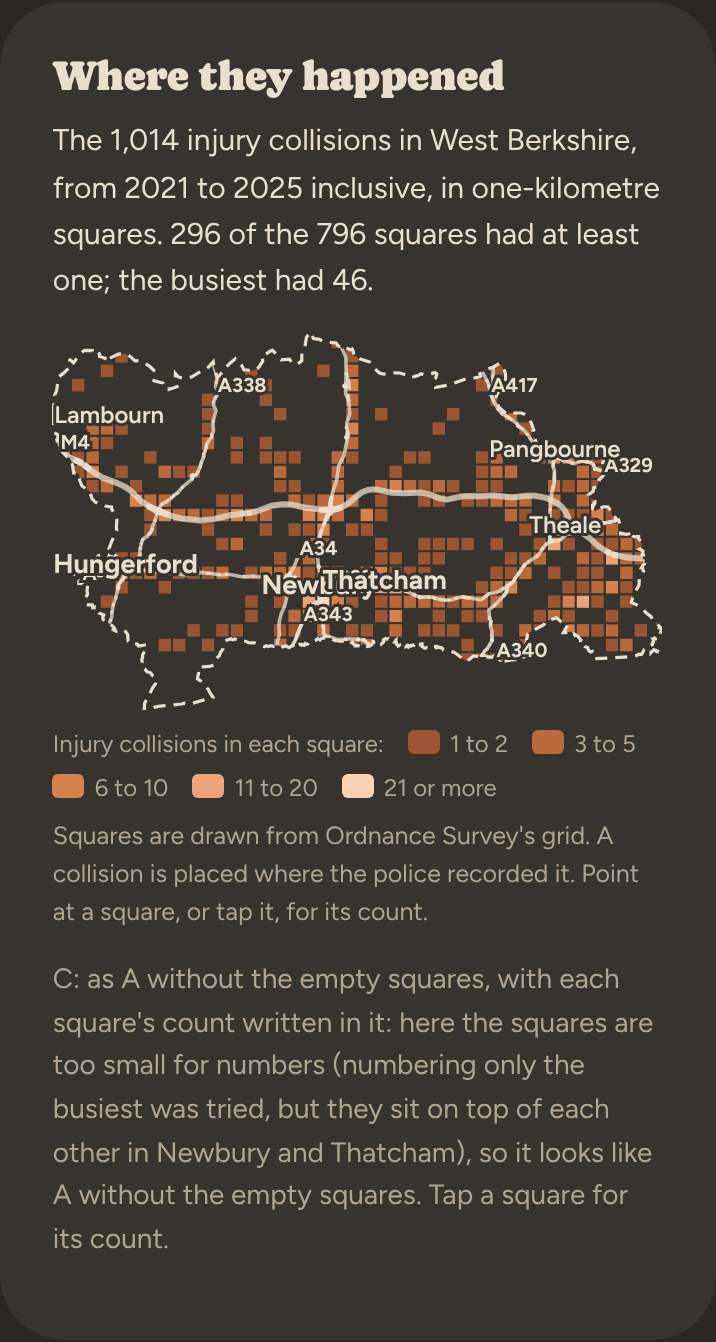
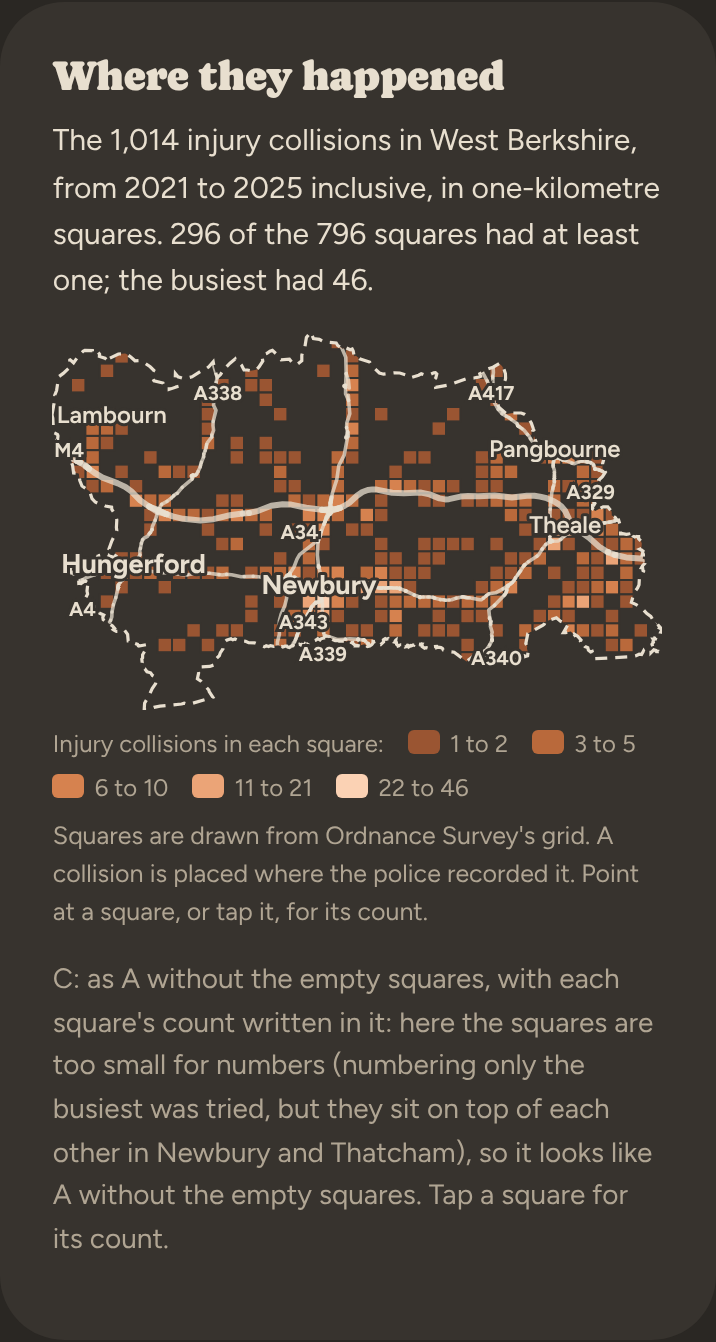
Map options round 2: the Mix for circles, steps from each place's figures, labels kept apart
Claude-Session: https://claude.ai/code/session_01BsvHLKQcNJBVbFRqrGwVRv

diff --git a/design/mockups/map/map.src.html b/design/mockups/map/map.src.html
@@ -69,6 +69,9 @@ h3 { font-size: 21px; }
 .map .r-m { stroke: var(--color-text); stroke-width: 3; }
 .map .r-a { stroke: var(--color-text); stroke-width: 1.8; }
 .map .r-b { stroke: var(--color-neutral-700); stroke-width: 1; }
+.map .w-case { stroke: color-mix(in srgb, #201e1d 55%, transparent); stroke-width: 4.6; }
+.map .w-a { stroke: #fff; stroke-width: 2.6; }
+.map .w-m { stroke: #fff; stroke-width: 3.4; }
 .map .r-minor { stroke: var(--color-neutral-500); stroke-width: 0.6; opacity: 0.8; }
 .map .bg-a { stroke: var(--color-neutral-500); stroke-width: 1.8; }
 .map .bg-m { stroke: var(--color-neutral-500); stroke-width: 3; }
@@ -92,7 +95,7 @@ h3 { font-size: 21px; }
 </style>
 <div class="mock gutter" data-noprint><div class="col">
   <span class="mock-group"><b>Area</b><button data-area="circle">One mile round RG14</button><button data-area="council">West Berkshire</button></span>
-  <span class="mock-group"><b>Option</b><button data-opt="A">A</button><button data-opt="B">B</button><button data-opt="C">C</button></span>
+  <span class="mock-group"><b>Option</b><button data-opt="A">A</button><button data-opt="B">B</button><button data-opt="C">C</button><button data-opt="M">Mix</button></span>
 </div></div>
 <div class="gutter intro"><div class="col">
   <p class="card-kicker">Design · stage 5 · November 10th 2026</p>
@@ -105,14 +108,26 @@ h3 { font-size: 21px; }
 const D = /*DATA*/null;
 const LIGHT = ['#d18b61', '#bb6c40', '#a0532a', '#7c3c1b', '#552610'];
 const DARK = ['#9a5532', '#b9693b', '#d6824f', '#eba477', '#fbd2b4'];
-const BINS = { circle: [[1, 1], [2, 3], [4, 5], [6, 8], [9, Infinity]], council: [[1, 2], [3, 5], [6, 10], [11, 20], [21, Infinity]] };
+// Steps worked out from the place's own busiest square, growing by the same factor each time (busiest^(1/5)), so a
+// quiet place still shows its busiest square dark. The floor: where the busiest square has five or fewer, each count is
+// its own step from the lightest, so two collisions never look as dark as a town centre's busiest square.
+function stepsFor(max) {
+  if (max <= 5) return Array.from({ length: max }, (_, i) => [i + 1, i + 1]);
+  const ends = [1, 2, 3, 4].map(i => Math.round(Math.pow(max, i / 5)));
+  const out = []; let lo = 1;
+  for (const e of ends) if (e >= lo) { out.push([lo, e]); lo = e + 1; }
+  out.push([lo, max]);
+  return out;
+}
+let BINS = {};
 const W = ['zero', 'one', 'two', 'three', 'four', 'five', 'six', 'seven', 'eight', 'nine'];
 const word = n => n < 10 ? W[n] : n.toLocaleString('en-GB');
-const state = { area: 'circle', opt: 'A' };
+const state = { area: 'circle', opt: 'M' };
 const dark = () => matchMedia('(prefers-color-scheme: dark)').matches;
 const pal = () => dark() ? DARK : LIGHT;
 const bin = (a, n) => BINS[a].findIndex(([lo, hi]) => n >= lo && n <= hi);
-const rangeText = ([lo, hi]) => hi === Infinity ? `${lo} or more` : lo === hi ? `${lo}` : `${lo} to ${hi}`;
+const shade = (a, n) => { const P = pal(), k = BINS[a].length; return P[bin(a, n) + (k < 5 && BINS[a][k - 1][1] <= 5 ? 0 : 5 - k)]; };
+const rangeText = ([lo, hi]) => lo === hi ? `${lo}` : `${lo} to ${hi}`;
 const esc = s => String(s).replace(/[&<>"]/g, c => ({ '&': '&amp;', '<': '&lt;', '>': '&gt;', '"': '&quot;' }[c]));
 const VILLAGES = ['Theale', 'Pangbourne', 'Lambourn', 'Hermitage', 'Burghfield Common', 'Kintbury', 'Compton', 'Mortimer', 'Chieveley', 'Aldermaston'];
 const VILLAGES_PHONE = ['Theale', 'Pangbourne', 'Lambourn'];
@@ -126,6 +141,7 @@ function inPoly([x, y], pts) {
   return c;
 }
 function draw() {
+  for (const k of ['circle', 'council']) BINS[k] = stepsFor(Math.max(...D[k].cells.map(c => c.n)));
   const a = D[state.area], card = document.getElementById('card');
   const w = Math.min(state.area === 'circle' ? 600 : 900, Math.floor(card.clientWidth - 2 * parseFloat(getComputedStyle(card).paddingLeft)));
   const narrow = w < 560;
@@ -137,14 +153,19 @@ function draw() {
   let clip = isCircle ? `<circle cx="${X(a.cx)}" cy="${Y(a.cy)}" r="${(a.r * k).toFixed(1)}"/>` : a.outline.map(r => `<path d="${path(r)}Z"/>`).join('');
   let s = `<svg class="map" viewBox="0 0 ${w} ${h}" width="${w}" height="${h}" role="img" aria-label="Injury collisions in each ${isCircle ? '250-metre' : 'one-kilometre'} square, 2021 to 2025"><defs><clipPath id="clip">${clip}</clipPath></defs>`;
   // B: a road map underneath, beyond the edge too
-  if (state.opt === 'B') s += a.roads.map(r => `<path class="road ${r.k === 'minor' ? 'r-minor' : r.k === 'b' ? 'r-b' : 'bg-' + r.k}" d="${path(r.pts)}"/>`).join('');
+  if (state.opt === 'B' || state.opt === 'M') s += a.roads.map(r => `<path class="road ${r.k === 'minor' ? 'r-minor' : r.k === 'b' ? 'r-b' : 'bg-' + r.k}" d="${path(r.pts)}"/>`).join('');
   s += `<g clip-path="url(#clip)">`;
   if (state.opt === 'A') s += a.grid.map(([x, y]) => `<rect class="grid0" x="${X(x)}" y="${Y(y + a.size)}" width="${sz.toFixed(1)}" height="${sz.toFixed(1)}"/>`).join('');
-  const op = state.opt === 'B' ? ' fill-opacity="0.82"' : '';
-  s += a.cells.map((c, i) => `<rect class="cell" data-i="${i}" x="${X(c.x)}" y="${Y(c.y + a.size)}" width="${sz.toFixed(1)}" height="${sz.toFixed(1)}" fill="${P[bin(state.area, c.n)]}"${op}/>`).join('');
+  const op = state.opt === 'B' || state.opt === 'M' ? ' fill-opacity="0.82"' : '';
+  s += a.cells.map((c, i) => `<rect class="cell" data-i="${i}" x="${X(c.x)}" y="${Y(c.y + a.size)}" width="${sz.toFixed(1)}" height="${sz.toFixed(1)}" fill="${shade(state.area, c.n)}"${op}/>`).join('');
   s += `</g>`;
   // A and C: only the main roads over the squares
-  if (state.opt !== 'B') s += `<g clip-path="url(#clip)">` + a.roads.filter(r => r.k === 'm' || r.k === 'a' || (isCircle && r.k === 'b')).map(r => `<path class="road r-${r.k}" d="${path(r.pts)}" opacity="0.75"/>`).join('') + `</g>`;
+  if (state.opt === 'M') {
+    const main = a.roads.filter(r => r.k === 'm' || r.k === 'a');
+    s += `<path class="road w-case" d="${main.map(r => path(r.pts)).join('')}"/>`;
+    for (const kk of ['a', 'm']) s += `<path class="road w-${kk}" d="${main.filter(r => r.k === kk).map(r => path(r.pts)).join('')}"/>`;
+  }
+  if (state.opt === 'A' || state.opt === 'C') s += `<g clip-path="url(#clip)">` + a.roads.filter(r => r.k === 'm' || r.k === 'a' || (isCircle && r.k === 'b')).map(r => `<path class="road r-${r.k}" d="${path(r.pts)}" opacity="0.75"/>`).join('') + `</g>`;
   s += isCircle ? `<circle class="edge" cx="${X(a.cx)}" cy="${Y(a.cy)}" r="${(a.r * k).toFixed(1)}"/><circle class="mid" cx="${X(a.cx)}" cy="${Y(a.cy)}" r="4"/>` : a.outline.map(r => `<path class="edge" d="${path(r)}Z"/>`).join('');
   // C: numbers in the squares where they fit, otherwise on the ten busiest
   if (state.opt === 'C') {
@@ -152,23 +173,44 @@ function draw() {
     a.cells.forEach((c, i) => {
       if (!fits) return;
       const cx = (c.mx - x0) * k, cy = (y1 - c.my) * k, b = bin(state.area, c.n);
-      const lightText = dark() ? b < 3 : b >= 2;
+      const lightText = dark() ? b < 3 : b >= 2; void lightText;
       if (fits) s += `<text class="num ${lightText ? '' : 'dk'}" x="${cx.toFixed(1)}" y="${(cy + 4).toFixed(1)}">${c.n}</text>`;
     });
   }
-  // road numbers on the main roads, once each
+  // labels: places first, then road numbers; any label that would overlap one already placed, or run off the map, is left out
+  // try the label at its place, then nudged into the map, then just above or below; null if nowhere is free
+  const boxes = [], fits = (x0_, y0_, wd, ht) => {
+    for (const dy of [0, -ht - 2, ht + 4]) {
+      const x = Math.max(wd / 2 + 3, Math.min(w - wd / 2 - 3, x0_)), y = y0_ + dy;
+      const b = [x - wd / 2 - 3, y - ht - 2, x + wd / 2 + 3, y + 3];
+      if (b[1] < 0 || b[3] > h || Math.abs(x - x0_) > wd) continue;
+      if (boxes.some(o => b[0] < o[2] && b[2] > o[0] && b[1] < o[3] && b[3] > o[1])) continue;
+      boxes.push(b); return [x, y];
+    }
+    return null;
+  };
+  const tw = (t, px) => t.length * px * 0.56;
+  const pl = a.places.filter(p => p.kind === 't' || p.kind === 'c' || (isCircle && !narrow) || (!isCircle && (narrow ? VILLAGES_PHONE : VILLAGES).includes(p.name)))
+    .sort((p, q) => (q.kind === 't' || q.kind === 'c') - (p.kind === 't' || p.kind === 'c'));
+  if (isCircle) fits(+X(a.cx), +Y(a.cy) + 4, 8, 8);
+  for (const p of pl) {
+    const big = p.kind === 't' || p.kind === 'c', px = big ? 13.5 : 12, x = +X(p.x), y = +Y(p.y);
+    const at = fits(x, y, tw(p.name, px), px);
+    if (at) s += `<text class="place ${big ? 't' : ''}" x="${at[0].toFixed(1)}" y="${at[1].toFixed(1)}" text-anchor="middle">${esc(p.name)}</text>`;
+  }
   const seen = new Set();
   for (const r of a.roads) {
     if (!(r.k === 'm' || r.k === 'a') || !r.no || seen.has(r.no) || r.pts.length < 2) continue;
-    const m = r.pts[Math.floor(r.pts.length / 2)];
-    const inside = isCircle ? Math.hypot(m[0] - a.cx, m[1] - a.cy) < a.r * 0.85 : a.outline.some(rg => inPoly(m, rg));
-    if (!inside || m[0] < x0 + 300 || m[0] > x1 - 300) continue;
-    seen.add(r.no); s += `<text class="rno" x="${X(m[0])}" y="${Y(m[1])}">${esc(r.no)}</text>`;
+    for (const m of [r.pts[Math.floor(r.pts.length / 2)], r.pts[0], r.pts[r.pts.length - 1]]) {
+      const inside = isCircle ? Math.hypot(m[0] - a.cx, m[1] - a.cy) < a.r * 0.85 : a.outline.some(rg => inPoly(m, rg));
+      if (!inside) continue;
+      const x = +X(m[0]), y = +Y(m[1]) + 4;
+      const at = fits(x, y, tw(r.no, 10), 10);
+      if (at) { seen.add(r.no); s += `<text class="rno" x="${at[0].toFixed(1)}" y="${at[1].toFixed(1)}" text-anchor="middle">${esc(r.no)}</text>`; break; }
+    }
   }
-  const pl = a.places.filter(p => p.kind === 't' || p.kind === 'c' || (isCircle && !narrow) || (!isCircle && (narrow ? VILLAGES_PHONE : VILLAGES).includes(p.name)));
-  s += pl.map(p => `<text class="place ${p.kind === 't' || p.kind === 'c' ? 't' : ''}" x="${X(p.x)}" y="${Y(p.y)}" text-anchor="middle">${esc(p.name)}</text>`).join('');
   s += `</svg>`;
-  const legend = `<div class="legend"><span>Injury collisions in each square:</span>${state.opt === 'A' ? '<span><i class="e"></i>none</span>' : ''}${BINS[state.area].map((r, i) => `<span><i style="background:${P[i]}"></i>${rangeText(r)}</span>`).join('')}</div>`;
+  const legend = `<div class="legend"><span>Injury collisions in each square:</span>${state.opt === 'A' ? '<span><i class="e"></i>none</span>' : ''}${BINS[state.area].map(r => `<span><i style="background:${shade(state.area, r[0])}"></i>${rangeText(r)}</span>`).join('')}</div>`;
   const busiest = [...a.cells].sort((p, q) => q.n - p.n)[0];
   const lead = isCircle
     ? `<p>The ${word(a.n)} injury collisions within a mile of the middle of RG14 (Newbury), from 2021 to 2025 inclusive, in 250-metre squares. ${word(a.cells.length)[0].toUpperCase() + word(a.cells.length).slice(1)} of the ${a.grid.length} squares had at least one; the busiest had ${word(busiest.n)}.</p>`
@@ -176,6 +218,7 @@ function draw() {
   const notes = {
     A: 'A: the squares on a plain ground, with every square drawn (faint outlines where there were none), and the main roads over them.',
     B: 'B: the squares, only where there were collisions, slightly see-through over a road map that carries on beyond the edge' + (isCircle ? ', minor roads included.' : '.'),
+    M: 'Mix (one mile): B\'s road map underneath, the squares slightly see-through over it, and the A-roads and motorways in white on top.',
     C: 'C: as A without the empty squares, with each square\'s count written in it' + (sz >= 20 ? '.' : ': here the squares are too small for numbers (numbering only the busiest was tried, but they sit on top of each other in Newbury and Thatcham), so it looks like A without the empty squares. Tap a square for its count.'),
   };
   card.innerHTML = `<h3>Where they happened</h3>${lead}<div class="mapwrap">${s}<div class="tip" hidden></div></div>${legend}<p class="note">Squares are drawn from Ordnance Survey's grid. A collision is placed where the police recorded it. Point at a square, or tap it, for its count.</p><p class="opt-note" style="margin-top:var(--space-3)">${notes[state.opt]}</p>`;
@@ -196,12 +239,12 @@ function draw() {
   wrap.addEventListener('click', e => show(e.target.closest('.cell'), e));
   document.querySelectorAll('[data-area]').forEach(b => b.setAttribute('aria-pressed', b.dataset.area === state.area));
   document.querySelectorAll('[data-opt]').forEach(b => b.setAttribute('aria-pressed', b.dataset.opt === state.opt));
-  document.getElementById('qs').innerHTML = `<h3 style="margin-top:var(--space-8)">Questions for John</h3><ol>
-    <li>Which option: A (every square, plain ground), B (squares over a road map) or C (counts written in the squares)?</li>
-    <li>Square sizes: 250 metres for a circle and one kilometre for a council area, as agreed to try. Half a mile and two miles would use the same 250-metre squares. Keep both sizes?</li>
-    <li>The five shading steps: for a circle 1, 2 to 3, 4 to 5, 6 to 8, 9 or more; for a council area 1 to 2, 3 to 5, 6 to 10, 11 to 20, 21 or more. Fixed steps like these, or steps worked out from each place's own figures (so a quiet village still shows its busiest square darkest)?</li>
-    <li>Where on the page: straight after the big figure, or after "Which roads"?</li>
-    <li>Squares are counts, not rates: a busy junction shows dark because lots of traffic goes through it. Say so under the map? (Draft: "Busy roads have more collisions because more people use them: these squares count collisions, they don't allow for traffic.")</li>
+  document.getElementById('qs').innerHTML = `<h3 style="margin-top:var(--space-8)">John's answers so far (November 10th 2026)</h3><ol>
+    <li>Circles: the Mix (B's road map, see-through squares, the A-roads and motorways in white on top). Council areas: A or C, which look the same on a phone; watch for overlapping labels on phones.</li>
+    <li>250-metre squares for circles, one-kilometre squares for council areas: yes.</li>
+    <li>Shading steps worked out from each place's own figures, with a floor. Shown here: the steps grow by the same factor up to the busiest square (one mile round RG14: ${BINS.circle.map(rangeText).join(', ')}; West Berkshire: ${BINS.council.map(rangeText).join(', ')}); where the busiest square has five or fewer, each count is its own step, starting from the lightest, so two collisions never look as dark as a town centre.</li>
+    <li>Where on the page: to settle.</li>
+    <li>The note that squares don't allow for traffic: in "About these figures", not under the map.</li>
   </ol>`;
 }
 document.querySelectorAll('[data-area]').forEach(b => b.onclick = () => { state.area = b.dataset.area; draw(); });

diff --git a/CLAUDE.md b/CLAUDE.md
@@ -71,6 +71,17 @@ Data notes:
 
 ## Log
 
+### 2026-11-10 — map options: John's answers; round 2 (branch `stage-5-map`, design only)
+
+**John:** circles get a mix (B's road map, see-through squares, A-roads and motorways in white on top); council areas A
+or C, careful with overlapping labels on phones; 250 m and 1 km squares, yes; shading steps from each place's own figures,
+with a floor (Claude to guide); the "squares don't allow for traffic" note goes in About these figures. Asked for the page
+order to answer where the map goes. **Built on the options page:** the Mix; steps growing by the same factor up to the
+busiest square (busiest^(1/5)), each count its own step from the lightest where the busiest has five or fewer (RG14:
+1 to 2, 3, 4, 5 to 7, 8 to 12; West Berkshire: 1 to 2, 3 to 5, 6 to 10, 11 to 21, 22 to 46); labels placed so none
+overlap (places first, then road numbers; nudged into the map or above or below, else left out). Thatcham is left out
+on a phone (it overlaps Newbury). Checked at 1200px and 390px with touch, light and dark: no errors, no sideways scrolling.
+
 ### 2026-11-10 — stage 4 merged; stage 5: the map options (branch `stage-5-map`, design only)
 
 **John:** merge stage 4 (done; "Delete merged branches" run) and carry on. **What:** options A, B and C for the map of
